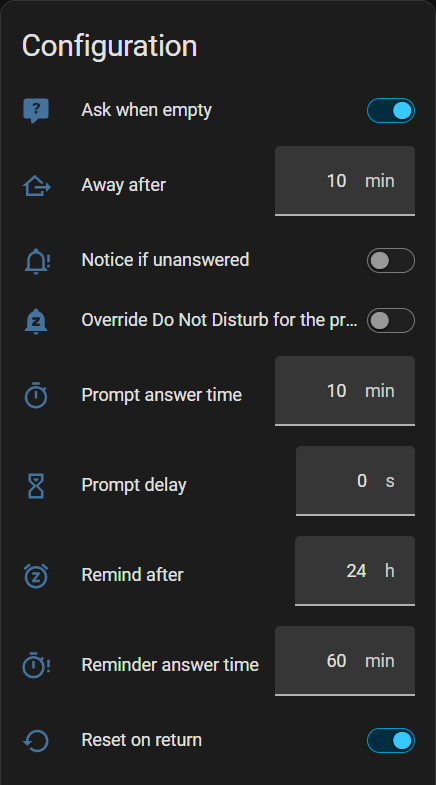
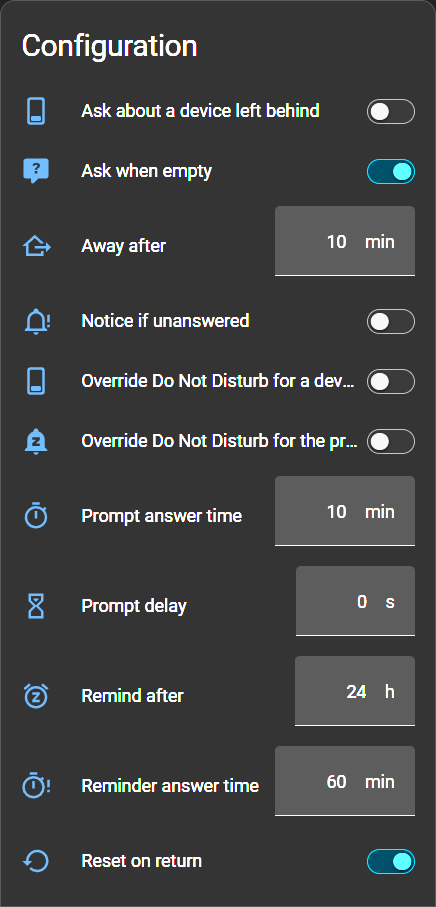
Show the device-left-behind question and all settings

diff --git a/README.md b/README.md
@@ -435,8 +435,7 @@ on while everybody is out, and the house keeps counting as occupied. With **Ask
 about a device left behind** on (off by default), the people under **Who is
 asked?** get one question when that happens:
 
-> **Device left behind?** Nobody else is home, but Xiaomi Tablet is. Is Kid
-> home? Without an answer within 10 minutes, Kid is switched off.
+![A critical alert on an iPhone lock screen: "Device left behind? Nobody else is home, but Noah's tablet is. Is Noah home? Without an answer within 10 minutes, Noah is switched off.", with the buttons "Yes, home" and "No, switch off"](images/left-behind.png)
 
 - It comes **Away after** minutes after the last real person left, and only if
   the tracker is on and a source still reports present then. A Bluetooth tag
